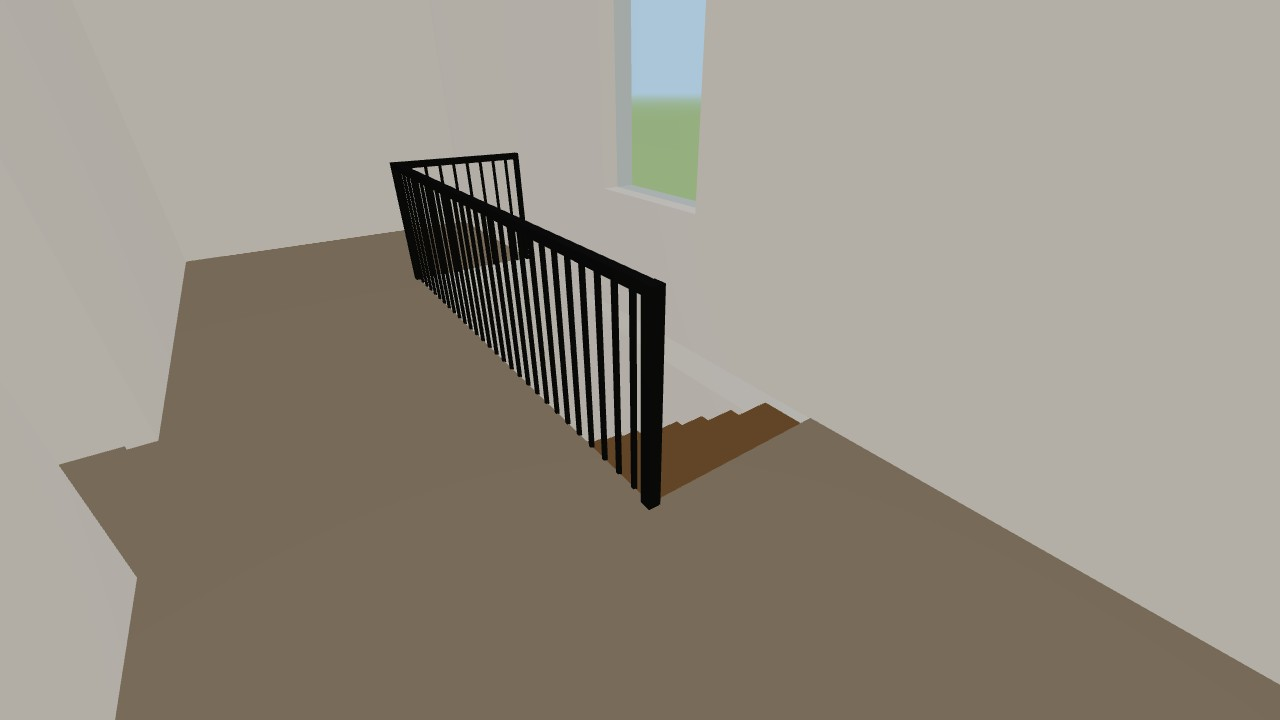
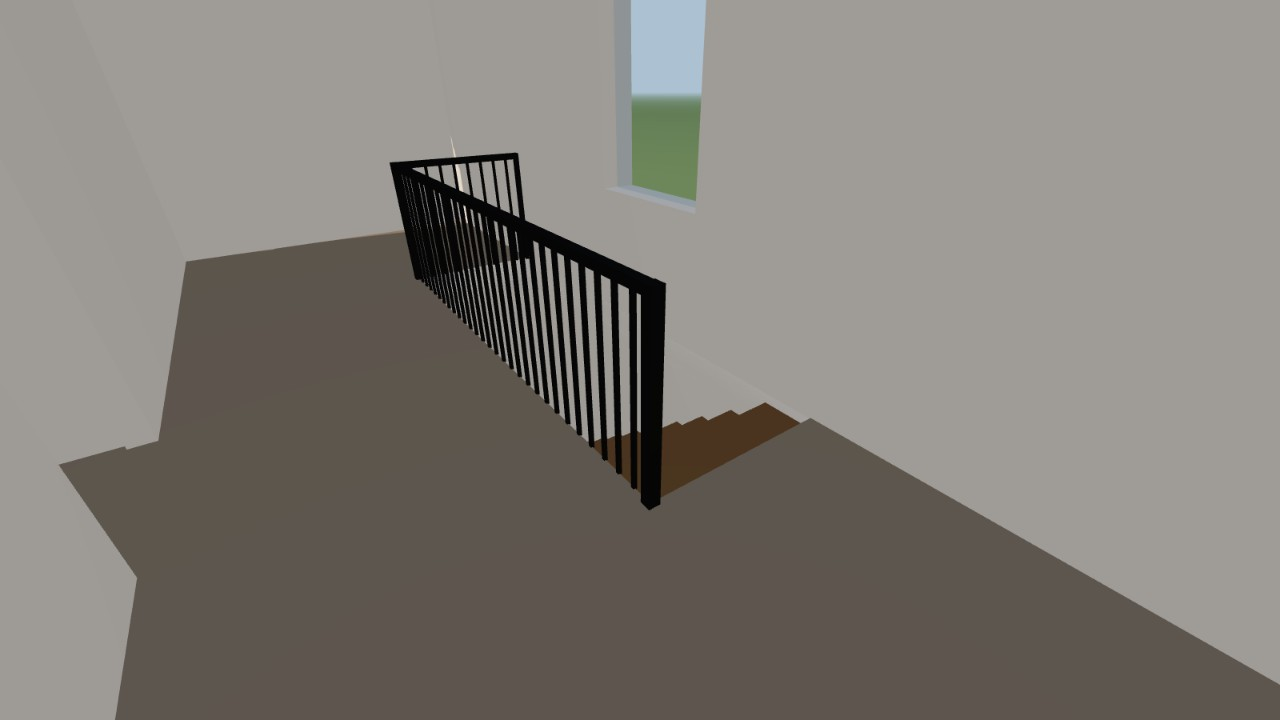
updating

diff --git a/src/viewer/lighting.ts b/src/viewer/lighting.ts
@@ -6,6 +6,19 @@ import type { BuiltHouse } from '../builder/build';
 
 export type TimeOfDay = 'day' | 'night';
 
+/**
+ * Day = a morning sun at about 8 AM: low in the east-south-east sky, warm light,
+ * long shadows. Compass azimuth (0 = plan north, 90 = east), elevation above the horizon.
+ */
+export const MORNING_SUN = { azimuthDeg: 105, elevationDeg: 20, distance: 40 };
+
+/** Unit world-space vector pointing from the house towards the sun (plan north = world -z). */
+export function sunDirection(azimuthDeg: number, elevationDeg: number): [number, number, number] {
+  const az = (azimuthDeg * Math.PI) / 180;
+  const el = (elevationDeg * Math.PI) / 180;
+  return [Math.sin(az) * Math.cos(el), Math.sin(el), -Math.cos(az) * Math.cos(el)];
+}
+
 interface Preset {
   sky: number;
   fogNear: number;
@@ -13,25 +26,24 @@ interface Preset {
   hemiSky: number;
   hemiGround: number;
   hemi: number;
-  sunColor: number;
-  sun: number;
-  /** Direction the sun/moon shines from (world, normalised later). */
-  sunFrom: [number, number, number];
+  /** Day: the point-light sun. Night: the directional moon. */
+  lightColor: number;
+  light: number;
   exposure: number;
   lampsOn: boolean;
 }
 
 const PRESETS: Record<TimeOfDay, Preset> = {
   day: {
-    sky: 0xbfd8ee, fogNear: 60, fogFar: 200,
-    hemiSky: 0xffffff, hemiGround: 0xd9d2c5, hemi: 1.6,
-    sunColor: 0xfff2dd, sun: 2.8, sunFrom: [0.65, 0.75, 0.55],
+    sky: 0xc9dcec, fogNear: 70, fogFar: 220,
+    hemiSky: 0xe8f0ff, hemiGround: 0xd9cbb5, hemi: 1.35,
+    lightColor: 0xffd6a6, light: 3.2,
     exposure: 1.0, lampsOn: false,
   },
   night: {
     sky: 0x0a1020, fogNear: 25, fogFar: 90,
     hemiSky: 0x2a3a66, hemiGround: 0x0c0c10, hemi: 0.5,
-    sunColor: 0x9fb4ff, sun: 0.6, sunFrom: [-0.5, 1.0, -0.4],
+    lightColor: 0x9fb4ff, light: 0.6,
     exposure: 1.0, lampsOn: true,
   },
 };
@@ -39,14 +51,19 @@ const PRESETS: Record<TimeOfDay, Preset> = {
 const LAMP_INTENSITY = 6; // candela (physically based units)
 const LAMP_RANGE = 9;
 
+const MOON_FROM: [number, number, number] = [-0.5, 1.0, -0.4];
+
 /**
- * Sun/moon with shadows, sky light, and one ceiling lamp per room.
+ * Day: a visible sun in the sky that is a shadow-casting point light.
+ * Night: a dim directional moon. Both have sky light, and at night one ceiling lamp per room.
  * Lamps (and their shadow maps) only run on the floor the player is on, so
  * the cost stays bounded and light never leaks through the slab between floors.
  */
 export class Lighting {
   mode: TimeOfDay = 'day';
-  readonly sun: THREE.DirectionalLight;
+  readonly sun: THREE.PointLight;
+  readonly sunDisc: THREE.Group;
+  readonly moon: THREE.DirectionalLight;
   readonly hemi: THREE.HemisphereLight;
   private lampsByFloor: { light: THREE.PointLight; bulb: THREE.Mesh }[][];
   private activeFloor = -1;
@@ -82,18 +99,35 @@ export class Lighting {
     this.hemi = new THREE.HemisphereLight();
     scene.add(this.hemi);
 
-    this.sun = new THREE.DirectionalLight();
+    // Sun: a point light far out in the 8 AM direction. decay 0 = no distance falloff,
+    // like real sunlight; its shadows fan out slightly from the light.
+    const { azimuthDeg, elevationDeg, distance } = MORNING_SUN;
+    const sunPos = this.centre.clone().addScaledVector(new THREE.Vector3(...sunDirection(azimuthDeg, elevationDeg)), distance);
+    this.sun = new THREE.PointLight(0xffffff, 1, 0, 0);
+    this.sun.position.copy(sunPos);
     this.sun.castShadow = true;
-    const sc = this.sun.shadow.camera;
+    this.sun.shadow.mapSize.set(2048, 2048);
+    this.sun.shadow.camera.near = 1;
+    this.sun.shadow.camera.far = distance * 3;
+    this.sun.shadow.bias = -0.0005;
+    this.sun.shadow.normalBias = 0.03;
+    this.sunDisc = makeSunDisc();
+    this.sunDisc.position.copy(sunPos);
+    scene.add(this.sun, this.sunDisc);
+
+    this.moon = new THREE.DirectionalLight();
+    this.moon.castShadow = true;
+    const sc = this.moon.shadow.camera;
     sc.left = sc.bottom = -this.radius;
     sc.right = sc.top = this.radius;
     sc.near = 0.5;
     sc.far = this.radius * 4;
-    this.sun.shadow.mapSize.set(2048, 2048);
-    this.sun.shadow.bias = -0.0004;
-    this.sun.shadow.normalBias = 0.03;
-    this.sun.target.position.copy(this.centre);
-    scene.add(this.sun, this.sun.target);
+    this.moon.shadow.mapSize.set(2048, 2048);
+    this.moon.shadow.bias = -0.0004;
+    this.moon.shadow.normalBias = 0.03;
+    this.moon.target.position.copy(this.centre);
+    this.moon.position.copy(this.centre).addScaledVector(new THREE.Vector3(...MOON_FROM).normalize(), this.radius * 2);
+    scene.add(this.moon, this.moon.target);
 
     // Ceiling lamps.
     const bulbMat = (this.bulbMat = new THREE.MeshStandardMaterial({ color: 0xffffff, emissive: 0xffe2b0, emissiveIntensity: 0 }));
@@ -145,10 +179,12 @@ export class Lighting {
     this.hemi.color.setHex(p.hemiSky);
     this.hemi.groundColor.setHex(p.hemiGround);
     this.hemi.intensity = p.hemi;
-    this.sun.color.setHex(p.sunColor);
-    this.sun.intensity = p.sun;
-    const dir = new THREE.Vector3(...p.sunFrom).normalize();
-    this.sun.position.copy(this.centre).addScaledVector(dir, this.radius * 2);
+    const day = mode === 'day';
+    this.sun.visible = this.sunDisc.visible = day;
+    this.moon.visible = !day;
+    const active = day ? this.sun : this.moon;
+    active.color.setHex(p.lightColor);
+    active.intensity = p.light;
     this.renderer.toneMappingExposure = p.exposure;
     this.bulbMat.emissiveIntensity = p.lampsOn ? 2.5 : 0;
     this.activeFloor = -1; // force lamp refresh
@@ -165,4 +201,39 @@ export class Lighting {
     const on = PRESETS[this.mode].lampsOn;
     this.lampsByFloor.forEach((lamps, i) => lamps.forEach(({ light }) => (light.visible = on && i === floor)));
   }
+}
+
+/** The visible sun: a bright disc with a soft additive glow. Never casts or receives shadows. */
+function makeSunDisc(): THREE.Group {
+  const g = new THREE.Group();
+  g.name = 'sun';
+  const disc = new THREE.Mesh(
+    new THREE.SphereGeometry(1.1, 32, 16),
+    new THREE.MeshBasicMaterial({ color: 0xfff4d6, fog: false, toneMapped: false }),
+  );
+  const c = document.createElement('canvas');
+  c.width = c.height = 128;
+  const x = c.getContext('2d')!;
+  const grad = x.createRadialGradient(64, 64, 0, 64, 64, 64);
+  grad.addColorStop(0, 'rgba(255,236,190,1)');
+  grad.addColorStop(0.25, 'rgba(255,214,150,0.55)');
+  grad.addColorStop(1, 'rgba(255,200,130,0)');
+  x.fillStyle = grad;
+  x.fillRect(0, 0, 128, 128);
+  const glow = new THREE.Sprite(
+    new THREE.SpriteMaterial({
+      map: new THREE.CanvasTexture(c),
+      blending: THREE.AdditiveBlending,
+      depthWrite: false,
+      fog: false,
+      toneMapped: false,
+    }),
+  );
+  glow.scale.setScalar(12);
+  g.add(disc, glow);
+  g.traverse((o) => {
+    o.castShadow = false;
+    o.receiveShadow = false;
+  });
+  return g;
 }

diff --git a/src/viewer/lighting.test.ts b/src/viewer/lighting.test.ts
@@ -1,0 +1,19 @@
+import { describe, expect, it } from 'vitest';
+import { MORNING_SUN, sunDirection } from './lighting';
+
+describe('morning sun', () => {
+  it('sits low in the east-south-east at 8 AM', () => {
+    const [x, y, z] = sunDirection(MORNING_SUN.azimuthDeg, MORNING_SUN.elevationDeg);
+    expect(Math.hypot(x, y, z)).toBeCloseTo(1);
+    expect(x).toBeGreaterThan(0.8); // mostly east
+    expect(z).toBeGreaterThan(0); // a little south (plan south = world +z)
+    expect(Math.asin(y) * (180 / Math.PI)).toBeCloseTo(20); // 20° above the horizon
+  });
+
+  it('maps compass bearings to world axes', () => {
+    const north = sunDirection(0, 0);
+    expect(north[2]).toBeCloseTo(-1);
+    const east = sunDirection(90, 0);
+    expect(east[0]).toBeCloseTo(1);
+  });
+});

diff --git a/README.md b/README.md
@@ -3,9 +3,9 @@
 **Turn floor plans into a 3D house you can walk through in the browser.**
 Each floor is described in a single JSON file (the *House JSON*). The app builds the walls, doors,
 windows, floors, stairs, railings and roof from it, then lets you explore in first or third person,
-climb the stairs between floors, and switch between day and night.
+climb the stairs between floors, and switch between an 8 AM morning and night.
 
-![The sample two-storey house in daylight](docs/media/exterior-day.jpg)
+![The sample two-storey house at 8 AM, with the morning sun low in the east and a long shadow](docs/media/exterior-day.jpg)
 
 <p align="center"><img src="docs/media/walkthrough.gif" alt="Walking in through the front door and up the stairs to the first floor" width="720"></p>
 
@@ -61,7 +61,9 @@ Open <http://localhost:5173>, click the card to start, and walk in through the f
 - Minimap of the current floor with your position and viewing direction
 - Floor switcher: jump straight to any floor (keys **1–9**)
 - Top-down overview (**Tab**): a cutaway of the selected floor that you can orbit and zoom
-- Day / night (**N**): sun with soft shadows by day; moonlight and shadow-casting ceiling lamps in every room at night
+- Day / night (**N**):
+  - **Day is 8 AM.** A visible sun sits low in the east-south-east sky, about 20° up. It is a point light that casts soft shadows, gives a warm morning colour, throws long shadows, and sends deep patches of sunlight through the windows.
+  - **Night:** moonlight, plus a shadow-casting ceiling lamp in every room
 
 **The model**
 - One JSON file describes the whole house: walls, doors, arches, windows, rooms, slab holes, stairs, railings and roof
@@ -101,11 +103,11 @@ between the camera and the figure, the camera moves in closer, so it never ends 
 | ![Third person on the stairs](docs/media/third-person-stairs.jpg) | ![Looking down the stairwell from the landing](docs/media/landing-stairwell.jpg) |
 | **Third person** climbing the stairs | **First person** on the landing, looking down the stairwell |
 | ![Daylight through a window](docs/media/interior-day.jpg) | ![Living room at night](docs/media/interior-night.jpg) |
-| **Day**: sunlight falling through the living-room window | **Night**: ceiling lamps light the room and cast light through the archway |
+| **Day (8 AM)**: low morning sun through the east window lays a long patch across the living-room floor | **Night**: ceiling lamps light the room and cast light through the archway |
 
-<p align="center"><img src="docs/media/day-night.gif" alt="Overview orbiting while switching from day to night" width="720"></p>
+<p align="center"><img src="docs/media/day-night.gif" alt="Overview orbiting while switching from the 8 AM morning to night" width="720"></p>
 
-| Day | Night |
+| Day (8 AM) | Night |
 |---|---|
 | ![Exterior by day](docs/media/exterior-day.jpg) | ![Exterior by night](docs/media/exterior-night.jpg) |
 | ![Ground floor overview by day](docs/media/overview-ground.jpg) | ![Ground floor overview at night](docs/media/overview-ground-night.jpg) |
@@ -133,7 +135,8 @@ between the camera and the figure, the camera moves in closer, so it never ends 
    - The player is a circle moving on the 2D plan. It collides with walls (with gaps at doors) and with railings.
    - The height under your feet comes from whichever is highest within a step's reach: the ground, a floor slab that has no hole at that spot, or the stair under you.
 5. **Light** ([`lighting.ts`](src/viewer/lighting.ts)):
-   - A shadow-casting sun or moon, plus soft sky light.
+   - **Day, the 8 AM sun:** a `PointLight` with no distance falloff, placed 40 m out at compass bearing 105° (east-south-east) and 20° above the horizon. A glowing disc marks where it is in the sky. It casts soft shadows that fan out slightly from the sun. The position is set by `MORNING_SUN` in `lighting.ts`; change the bearing or elevation to set a different time of day.
+   - **Night:** a dim directional moon. Both day and night add soft sky light.
    - At night, every room gets a ceiling lamp that casts its own shadows. Only the lamps on your current floor are switched on, which keeps it fast and stops light shining through the floor between storeys.
 
 ---
@@ -214,7 +217,8 @@ src/
     ├── walker.ts           1st/3rd person controller + avatar
     ├── camera.ts           View maths (yaw, pitch, follow camera)
     ├── camera.test.ts
-    ├── lighting.ts         Sun/moon, lamps, shadows, day/night
+    ├── lighting.ts         8 AM point-light sun, moon, lamps, shadows, day/night
+    ├── lighting.test.ts
     └── minimap.ts          2D minimap
 docs/media/                 README screenshots and GIFs
 ```
@@ -227,11 +231,12 @@ docs/media/                 README screenshots and GIFs
 npm test
 ```
 
-There are 13 tests. The logic they cover is pure TypeScript that doesn't need a browser:
+There are 15 tests. The logic they cover is pure TypeScript that doesn't need a browser:
 
 - **Validation**: the sample house passes. Errors are reported for a missing stairwell void, a misaligned upper floor, an opening that runs past the end of its wall, and a reference to a missing wall.
 - **Physics**: walls block you. You can walk in through the front door, climb the stairs to the first floor, and you can't walk into the side of the stair or past the railing into the stairwell.
 - **Camera**: yaw and pitch directions, the face up/down limits, the third-person camera sitting behind the figure, and the camera moving in when something is in the way.
+- **Sun**: the 8 AM sun is in the east-south-east, 20° above the horizon, and compass bearings map onto the correct world axes.
 
 ---
 
